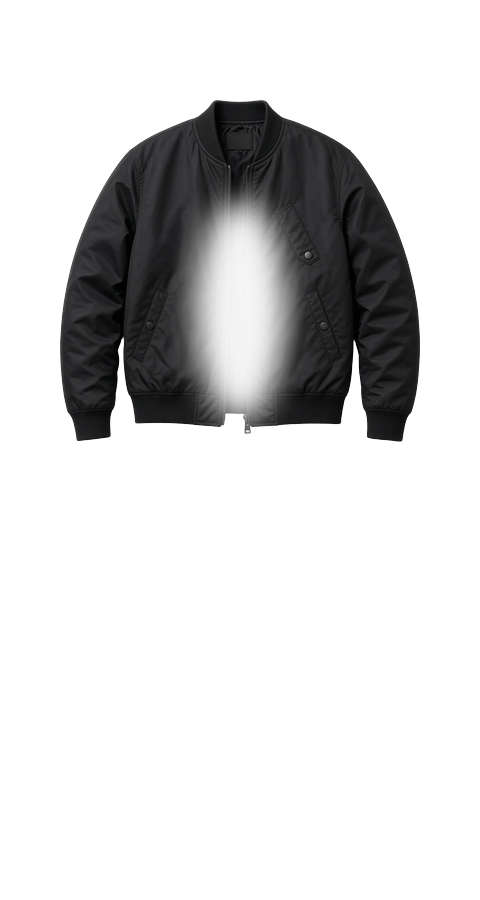
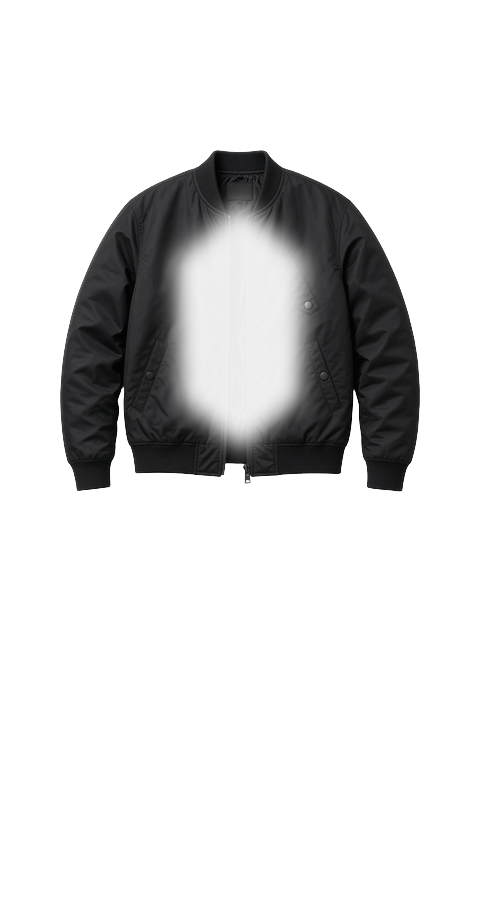
Ship critical 480×900 asset pack: open-front outers + brief
Align bomber/denim/leather/hoodie open-front cutouts to shoulder
anchor (~150px) with open placket; add regenerate script and
critical-assets checklist for A2 bases and leading combos.

Changed region(s): [[0.125, 0.0933, 0.875, 0.56]]

diff --git a/smart-fashion-finder/scripts/build-open-front-cutouts.py b/smart-fashion-finder/scripts/build-open-front-cutouts.py
@@ -1,0 +1,42 @@
+#!/usr/bin/env python3
+"""Align outer cutouts to Standard Fit shoulders and punch open-front placket."""
+from pathlib import Path
+from PIL import Image, ImageDraw, ImageFilter
+import numpy as np
+
+STD = (480, 900)
+TARGET_TOP = 150
+CUT = Path(__file__).resolve().parents[1] / 'assets/images/layers/cutouts'
+SOURCES = {
+    'bomber.png': 'bomber-open.png',
+    'denim-jkt.png': 'denim-jkt-open.png',
+    'leather.png': 'leather-open.png',
+    'hoodie.png': 'hoodie-open.png',
+}
+
+def make_open(src: Path, dst: Path) -> None:
+    im = Image.open(src).convert('RGBA')
+    if im.size != STD:
+        im = im.resize(STD, Image.Resampling.LANCZOS)
+    a = np.array(im)
+    ys = np.where(a[:, :, 3] > 25)[0]
+    top = int(ys.min()) if len(ys) else 0
+    dy = TARGET_TOP - top
+    canvas = Image.new('RGBA', STD, (0, 0, 0, 0))
+    canvas.paste(im, (0, dy), im)
+    a = np.array(canvas)
+    mask = Image.new('L', STD, 0)
+    d = ImageDraw.Draw(mask)
+    d.polygon([(240, 200), (305, 260), (300, 400), (240, 450), (180, 400), (175, 260)], fill=255)
+    mask = mask.filter(ImageFilter.GaussianBlur(10))
+    m = np.array(mask).astype(np.float32) / 255.0
+    a[:, :, 3] = (a[:, :, 3] * (1.0 - m * 0.92)).astype(np.uint8)
+    Image.fromarray(a).save(dst)
+    print(f'{dst.name}: dy={dy} chest_open={(a[270:370, 215:265, 3] < 50).mean():.2f}')
+
+def main() -> None:
+    for src_name, dst_name in SOURCES.items():
+        make_open(CUT / src_name, CUT / dst_name)
+
+if __name__ == '__main__':
+    main()

diff --git a/smart-fashion-finder/docs/critical-assets-480x900.md b/smart-fashion-finder/docs/critical-assets-480x900.md
@@ -1,0 +1,42 @@
+# Critical Assets Pack — Standard Fit 480×900
+
+Canvas: **480×900 PNG RGBA**. Anchors (px): head y≈49 · shoulders y≈157 · hips y≈360 · feet y≈787.
+
+## Status (this branch)
+
+### A2 Bases (clean / barefoot)
+| File | Status |
+|------|--------|
+| `bases/man.png` + `turn/man_*.png` | Boxers/shoes cleaned (front waist skin-filled on outerwear pass) |
+| `bases/woman.png` + turn | Light cleanup |
+| `bases/teenBoy.png` + turn | Cleaned |
+| `bases/teenGirl.png` + turn | Light cleanup |
+| `bases/boy.png` + turn | Boxers cleaned; shoes partial |
+| `bases/girl.png` + turn | Light cleanup |
+
+Artist pass still recommended: remove baked tank tops and any residual artifacts for a true nude-waist base.
+
+### Open-Front Outerwear (aligned to shoulders ≈150px)
+| File | Catalog IDs |
+|------|-------------|
+| `layers/cutouts/bomber-open.png` | `p-bomber` |
+| `layers/cutouts/denim-jkt-open.png` | `p-denim-jkt`, `p-blazer` |
+| `layers/cutouts/leather-open.png` | `p-leather`, `p-coat` |
+| `layers/cutouts/hoodie-open.png` | `p-hoodie`, `p-hoodie-black` |
+
+Regenerate anytime:
+
+```bash
+python3 scripts/build-open-front-cutouts.py
+```
+
+### Fitted Combos
+| File | `FITTED_COMBOS` key | Status |
+|------|---------------------|--------|
+| `fit/man/combo-oxford-jeans.png` | `p-oxford\|p-jeans` | Painted asset kept |
+| `fit/man/combo-bomber-jeans.png` | `p-bomber\|p-jeans` | Painted asset kept |
+
+## Next artist upload priority
+1. True bare bases (no tank/boxers/shoes) — man + woman first  
+2. Hand-painted open-front bomber / denim on the grid (replace procedural punch)  
+3. Remastered combo-oxford-jeans + combo-bomber-jeans  
